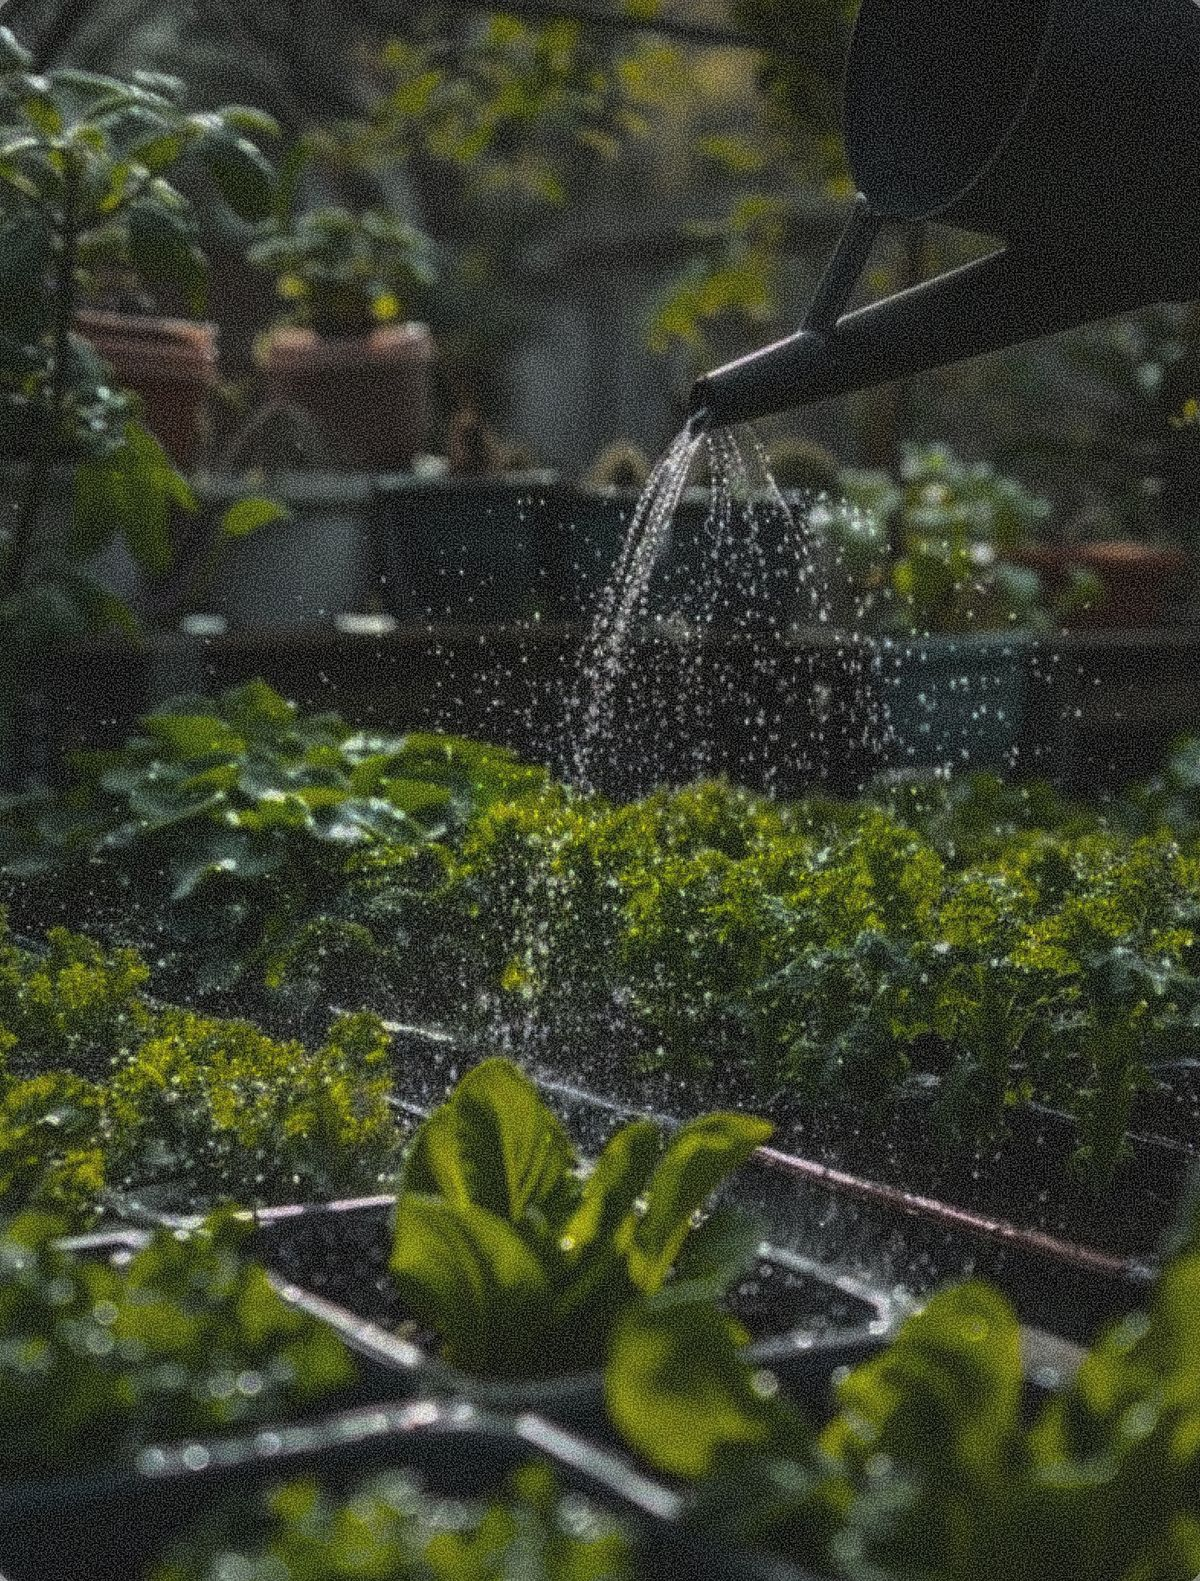
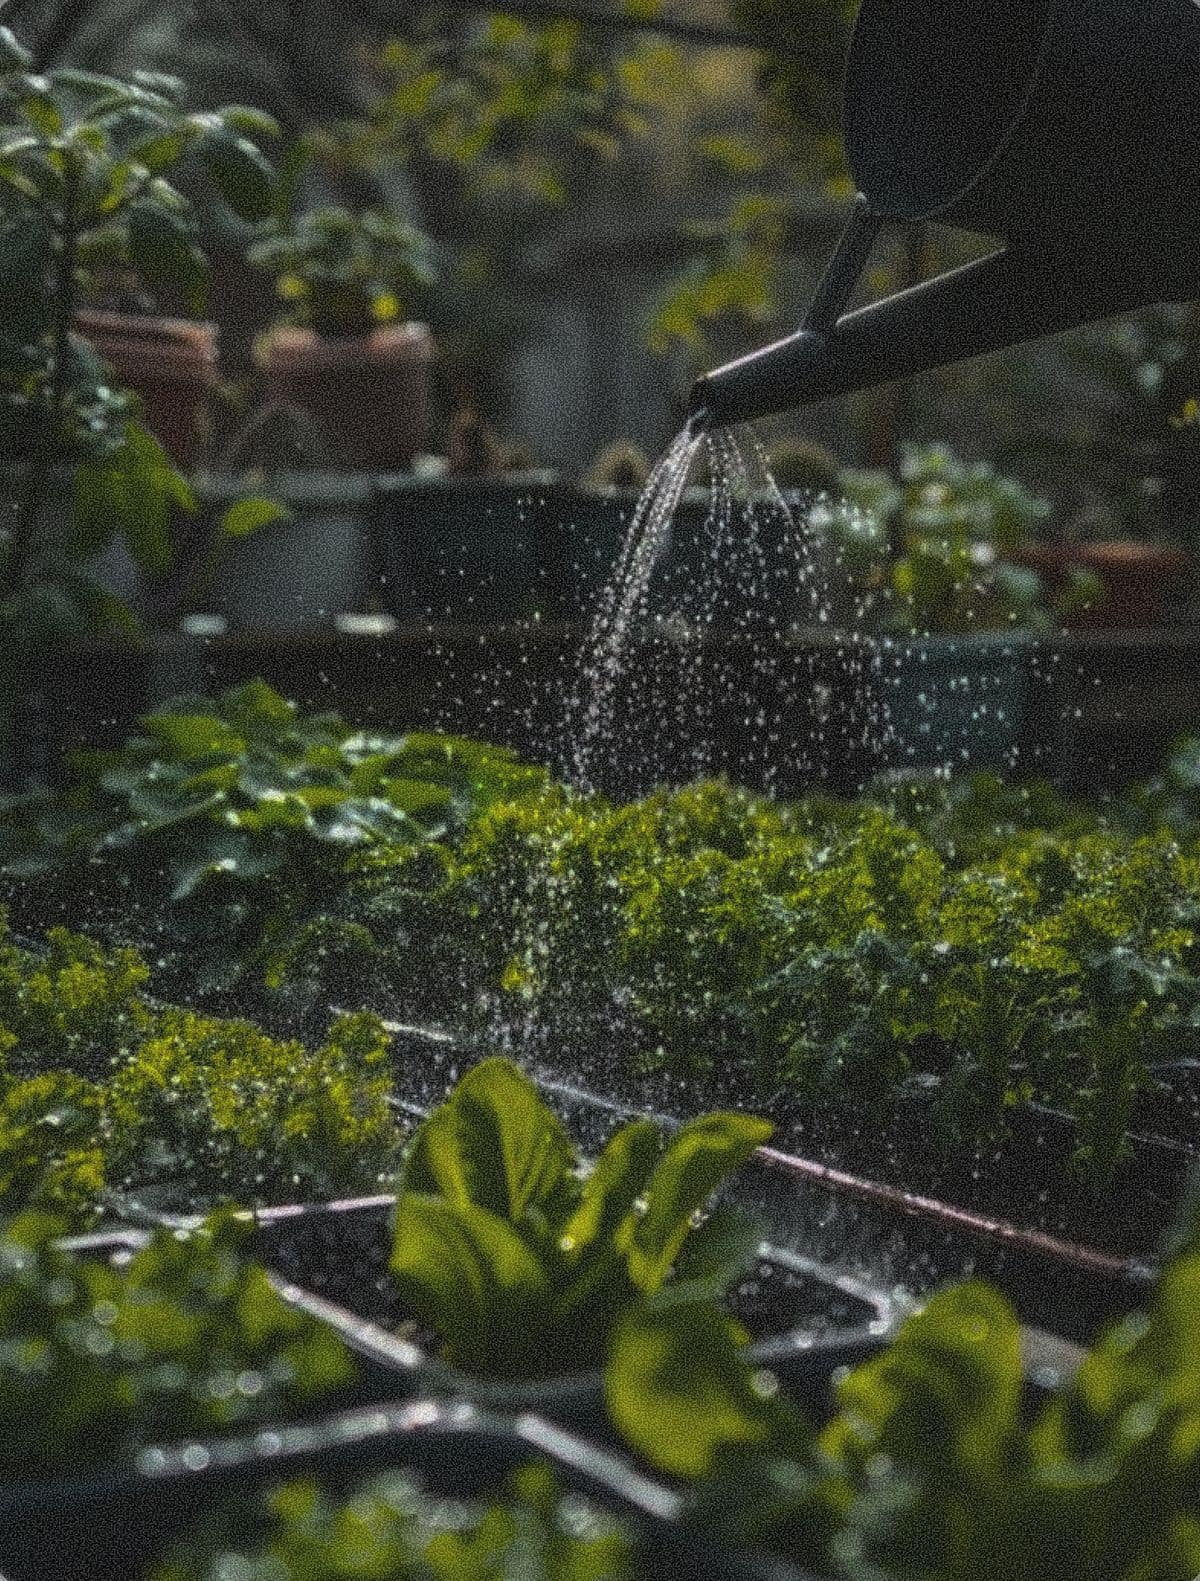
Stack tables on phones, and add transitions and lighter photos
Tables become labelled cards on a phone, a thin bar shows a page is loading,
and modals, menus and the phone drawer open with a quick fade. The auth photos
are about half the size. Motion respects reduced-motion settings, and a skip
link helps keyboard users.

diff --git a/src/app/globals.css b/src/app/globals.css
@@ -1127,3 +1127,45 @@ form.resend { margin: 0; }
 .offer { display: flex; flex-direction: column; }
 .offer__body { flex: 1; }
 .offer__body .request-card__actions { margin-top: auto; padding-top: 8px; }
+
+/* -------- page progress -------- */
+.page-progress { position: fixed; top: 0; left: 0; z-index: 50; width: 100%; height: 3px; background: var(--color-brand); transform-origin: left; animation: progress 1.6s ease-out forwards; }
+@keyframes progress { from { transform: scaleX(0.08); } to { transform: scaleX(0.9); } }
+
+/* -------- skip link: appears only for someone tabbing -------- */
+.skip-link { position: absolute; left: 16px; top: -60px; z-index: 60; display: inline-flex; align-items: center; min-height: 44px; padding: 0 18px; border-radius: 12px; background: var(--color-surface); box-shadow: 0 4px 13px rgba(221, 221, 221, 0.58); font: 500 14px/1 var(--font-sans); }
+.skip-link:focus { top: 12px; }
+
+/* -------- opening and closing: quick, and nothing waits for it -------- */
+.modal-backdrop { animation: fade-in 0.15s ease-out; }
+.modal { animation: rise-in 0.18s ease-out; }
+.rowmenu__pop { animation: rise-in 0.12s ease-out; }
+.confirm[open] { animation: rise-in 0.15s ease-out; }
+.confirm[open]::backdrop { animation: fade-in 0.15s ease-out; }
+@keyframes fade-in { from { opacity: 0; } to { opacity: 1; } }
+@keyframes rise-in { from { opacity: 0; transform: translateY(6px); } to { opacity: 1; transform: none; } }
+.pill { transition: background-color 0.2s ease, color 0.2s ease; }
+.nav__item, .home-card, .tab { transition: background-color 0.15s ease, color 0.15s ease, border-color 0.15s ease; }
+
+@media (max-width: 900px) {
+  .nav__toggle:checked ~ .nav__body { animation: rise-in 0.16s ease-out; }
+}
+
+/* -------- phones: a table becomes a stack of cards -------- */
+@media (max-width: 640px) {
+  .tables-labelled .table-card:not(.schedule) { overflow: visible; border: 0; border-radius: 0; }
+  .tables-labelled .table-card:not(.schedule) .table { display: block; min-width: 0; }
+  .tables-labelled .table-card:not(.schedule) .table thead { display: none; }
+  .tables-labelled .table-card:not(.schedule) .table tbody { display: flex; flex-direction: column; gap: 12px; }
+  .tables-labelled .table-card:not(.schedule) .table tr { display: block; padding: 6px 16px; border: 2px solid var(--color-hairline); border-radius: 20px; background: var(--color-surface); }
+  .tables-labelled .table-card:not(.schedule) .table td { display: flex; align-items: center; justify-content: space-between; gap: 16px; width: auto; height: auto; min-height: 44px; padding: 8px 0; border: 0; white-space: normal; text-align: right; }
+  .tables-labelled .table-card:not(.schedule) .table td + td { border-top: 1px solid var(--color-hairline); }
+  .tables-labelled .table-card:not(.schedule) .table td[data-label]::before { content: attr(data-label); flex: none; color: #808080; font: 500 13px/21px var(--font-sans); text-align: left; }
+  .tables-labelled .table-card:not(.schedule) .table td[data-label=""]::before { content: none; }
+  .tables-labelled .table-card:not(.schedule) .table td[data-label=""] { justify-content: flex-end; }
+}
+
+@media (prefers-reduced-motion: reduce) {
+  .modal-backdrop, .modal, .rowmenu__pop, .confirm[open], .confirm[open]::backdrop, .nav__toggle:checked ~ .nav__body, .page-progress { animation: none; }
+  .pill, .nav__item, .home-card, .tab { transition: none; }
+}

diff --git a/src/components/app/TableLabels.tsx b/src/components/app/TableLabels.tsx
@@ -1,0 +1,35 @@
+"use client";
+
+import { useEffect } from "react";
+
+/**
+ * On a phone a table stacks into cards, and each cell needs its column's name beside it. The
+ * names are read from the header row, so every table gets this without repeating them. With
+ * JavaScript off a table simply scrolls inside its card.
+ */
+export function TableLabels() {
+  useEffect(() => {
+    const label = () => {
+      document.querySelectorAll<HTMLTableElement>("table.table").forEach((table) => {
+        // A heading hidden for screen readers names a column of buttons, which need no label.
+        const heads = Array.from(table.querySelectorAll("thead th")).map((th) => (th.querySelector(".sr-only") ? "" : th.textContent?.trim() ?? ""));
+        table.querySelectorAll("tbody tr").forEach((row) => {
+          Array.from(row.children).forEach((cell, i) => {
+            const name = heads[i] ?? "";
+            if (cell.getAttribute("data-label") !== name) cell.setAttribute("data-label", name);
+          });
+        });
+      });
+      document.documentElement.classList.add("tables-labelled");
+    };
+    label();
+    let queued = 0;
+    const observer = new MutationObserver(() => {
+      cancelAnimationFrame(queued);
+      queued = requestAnimationFrame(label);
+    });
+    observer.observe(document.body, { childList: true, subtree: true });
+    return () => observer.disconnect();
+  }, []);
+  return null;
+}

diff --git a/src/components/app/PageProgress.tsx b/src/components/app/PageProgress.tsx
@@ -1,0 +1,34 @@
+"use client";
+
+import { useEffect, useState } from "react";
+import { usePathname } from "next/navigation";
+
+/** A thin bar while the next page loads, for screens that have no skeleton. */
+export function PageProgress() {
+  const pathname = usePathname();
+  const [busy, setBusy] = useState(false);
+  const [seen, setSeen] = useState(pathname);
+  if (seen !== pathname) {
+    setSeen(pathname);
+    setBusy(false);
+  }
+
+  useEffect(() => {
+    const onClick = (e: MouseEvent) => {
+      if (e.defaultPrevented || e.button !== 0 || e.metaKey || e.ctrlKey || e.shiftKey) return;
+      const link = (e.target as HTMLElement).closest?.("a");
+      if (!link || link.target || link.origin !== location.origin || link.pathname === location.pathname) return;
+      setBusy(true);
+    };
+    document.addEventListener("click", onClick);
+    return () => document.removeEventListener("click", onClick);
+  }, []);
+
+  useEffect(() => {
+    if (!busy) return;
+    const stop = setTimeout(() => setBusy(false), 10000);
+    return () => clearTimeout(stop);
+  }, [busy]);
+
+  return busy ? <div className="page-progress" aria-hidden="true" /> : null;
+}

diff --git a/src/components/app/Shell.tsx b/src/components/app/Shell.tsx
@@ -35,6 +35,7 @@ export function Shell({ crumb, user, audience = "provider", unread = 0, search, 
   const base = `/${audience}`;
   return (
     <div className="app">
+      <a href="#main" className="skip-link">Skip to content</a>
       <Sidebar audience={audience} signOutAction={audience === "farmer" ? signOutFarmer : signOut} />
       <div className="app__panel">
         <header className="topbar">
@@ -66,7 +67,7 @@ export function Shell({ crumb, user, audience = "provider", unread = 0, search, 
             </span>
           </div>
         </header>
-        <main className="app__content">{children}</main>
+        <main id="main" className="app__content">{children}</main>
       </div>
     </div>
   );

diff --git a/e2e/staff-mfa.spec.ts b/e2e/staff-mfa.spec.ts
@@ -130,7 +130,12 @@ test("five wrong codes burn the code, not the account", async ({ page, browser }
   await b.page.goto("/staff/payments");
   const code = await latestCode(STAFF.email);
 
-  for (let i = 0; i < 4; i++) await typeCode(b.page, wrong(code));
+  // Each refused code clears the boxes, which is the moment the next try can start.
+  const box = b.page.getByLabel("Digit 1 of 7");
+  for (let i = 0; i < 4; i++) {
+    await typeCode(b.page, wrong(code));
+    await expect(box).toHaveValue("");
+  }
   await expect(b.page.getByText("That code is not right.")).toBeVisible();
   await typeCode(b.page, wrong(code));
   await expect(b.page.getByText("Too many wrong codes. Ask for a new one.")).toBeVisible();

diff --git a/src/app/layout.tsx b/src/app/layout.tsx
@@ -1,3 +1,5 @@
+import { PageProgress } from "@/components/app/PageProgress";
+import { TableLabels } from "@/components/app/TableLabels";
 import { ConfirmHost } from "@/components/app/ConfirmHost";
 import { Toaster } from "@/components/app/Toaster";
 import type { Metadata, Viewport } from "next";
@@ -17,6 +19,8 @@ export default function RootLayout({ children }: { children: React.ReactNode }) 
     <html lang="en" className={GeistSans.variable}>
       <body>
         {children}
+        <PageProgress />
+        <TableLabels />
         <Toaster />
         <ConfirmHost />
       </body>
